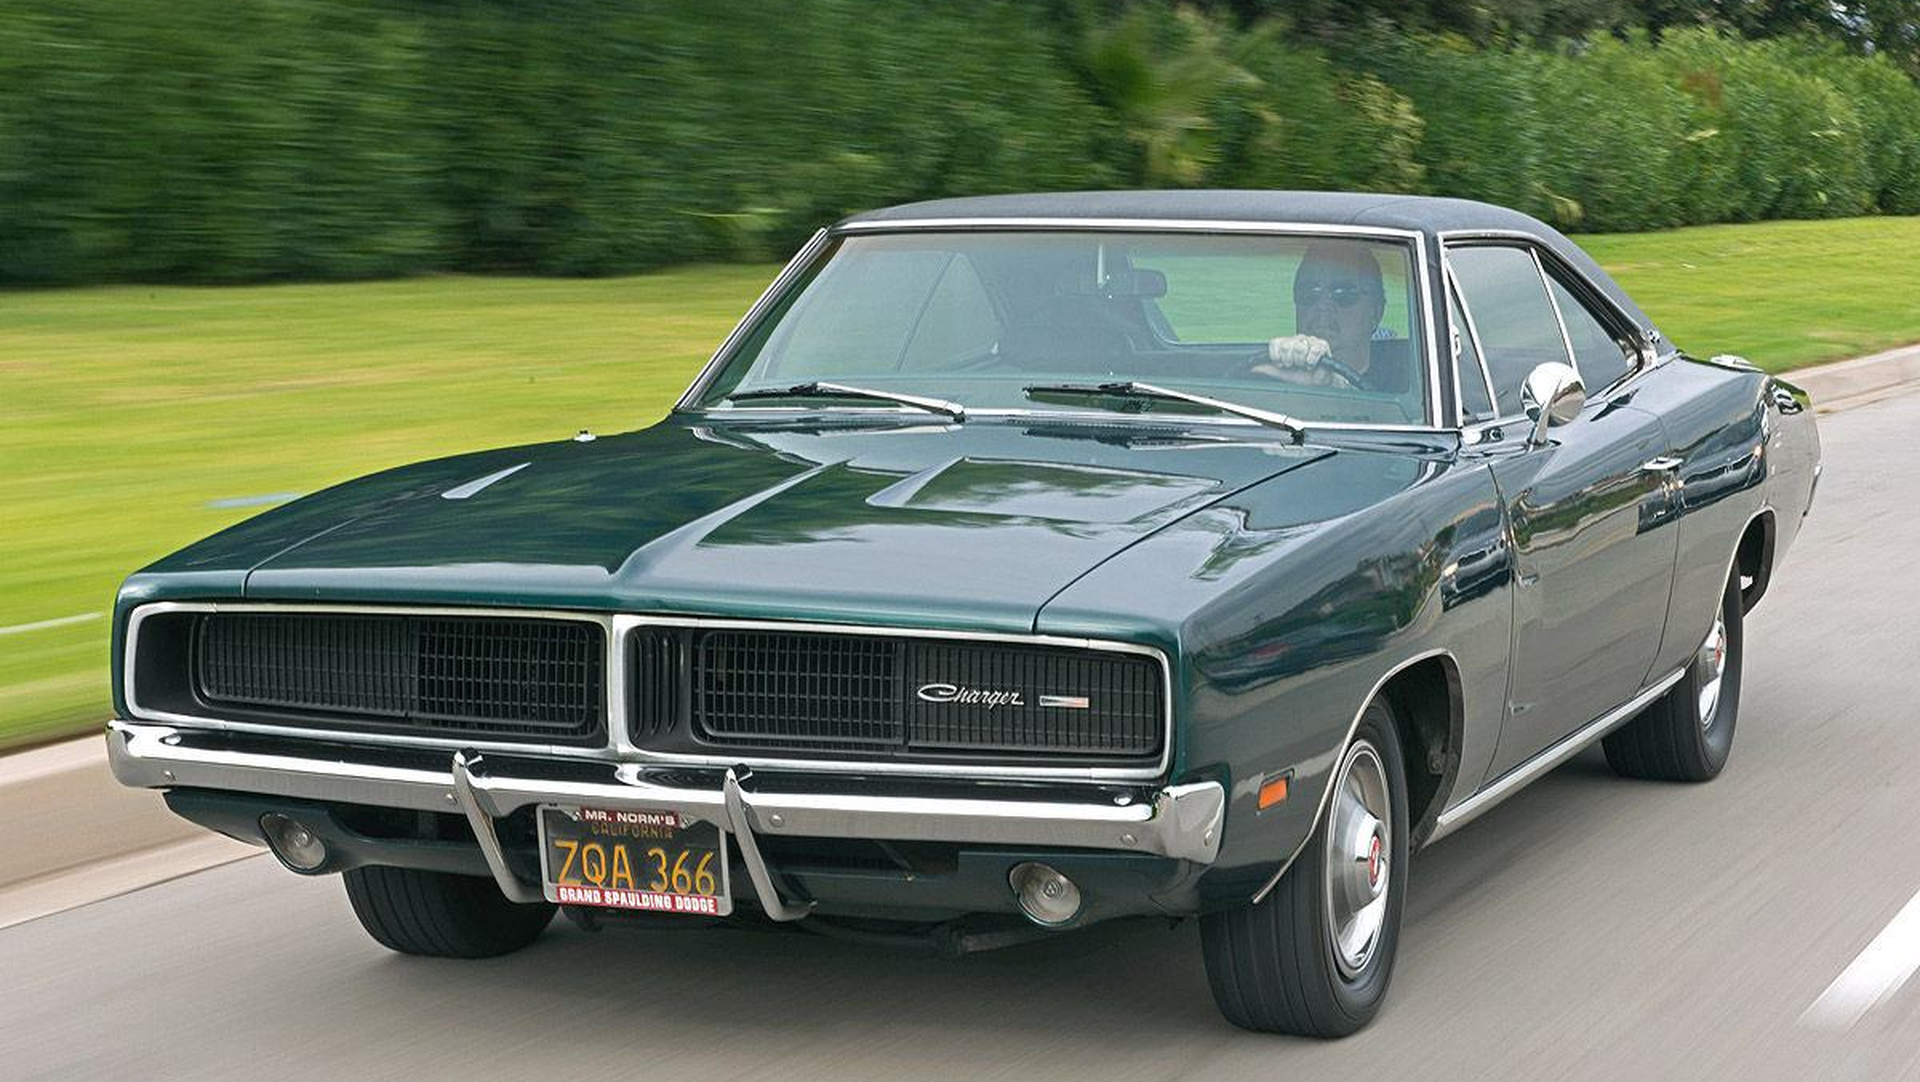
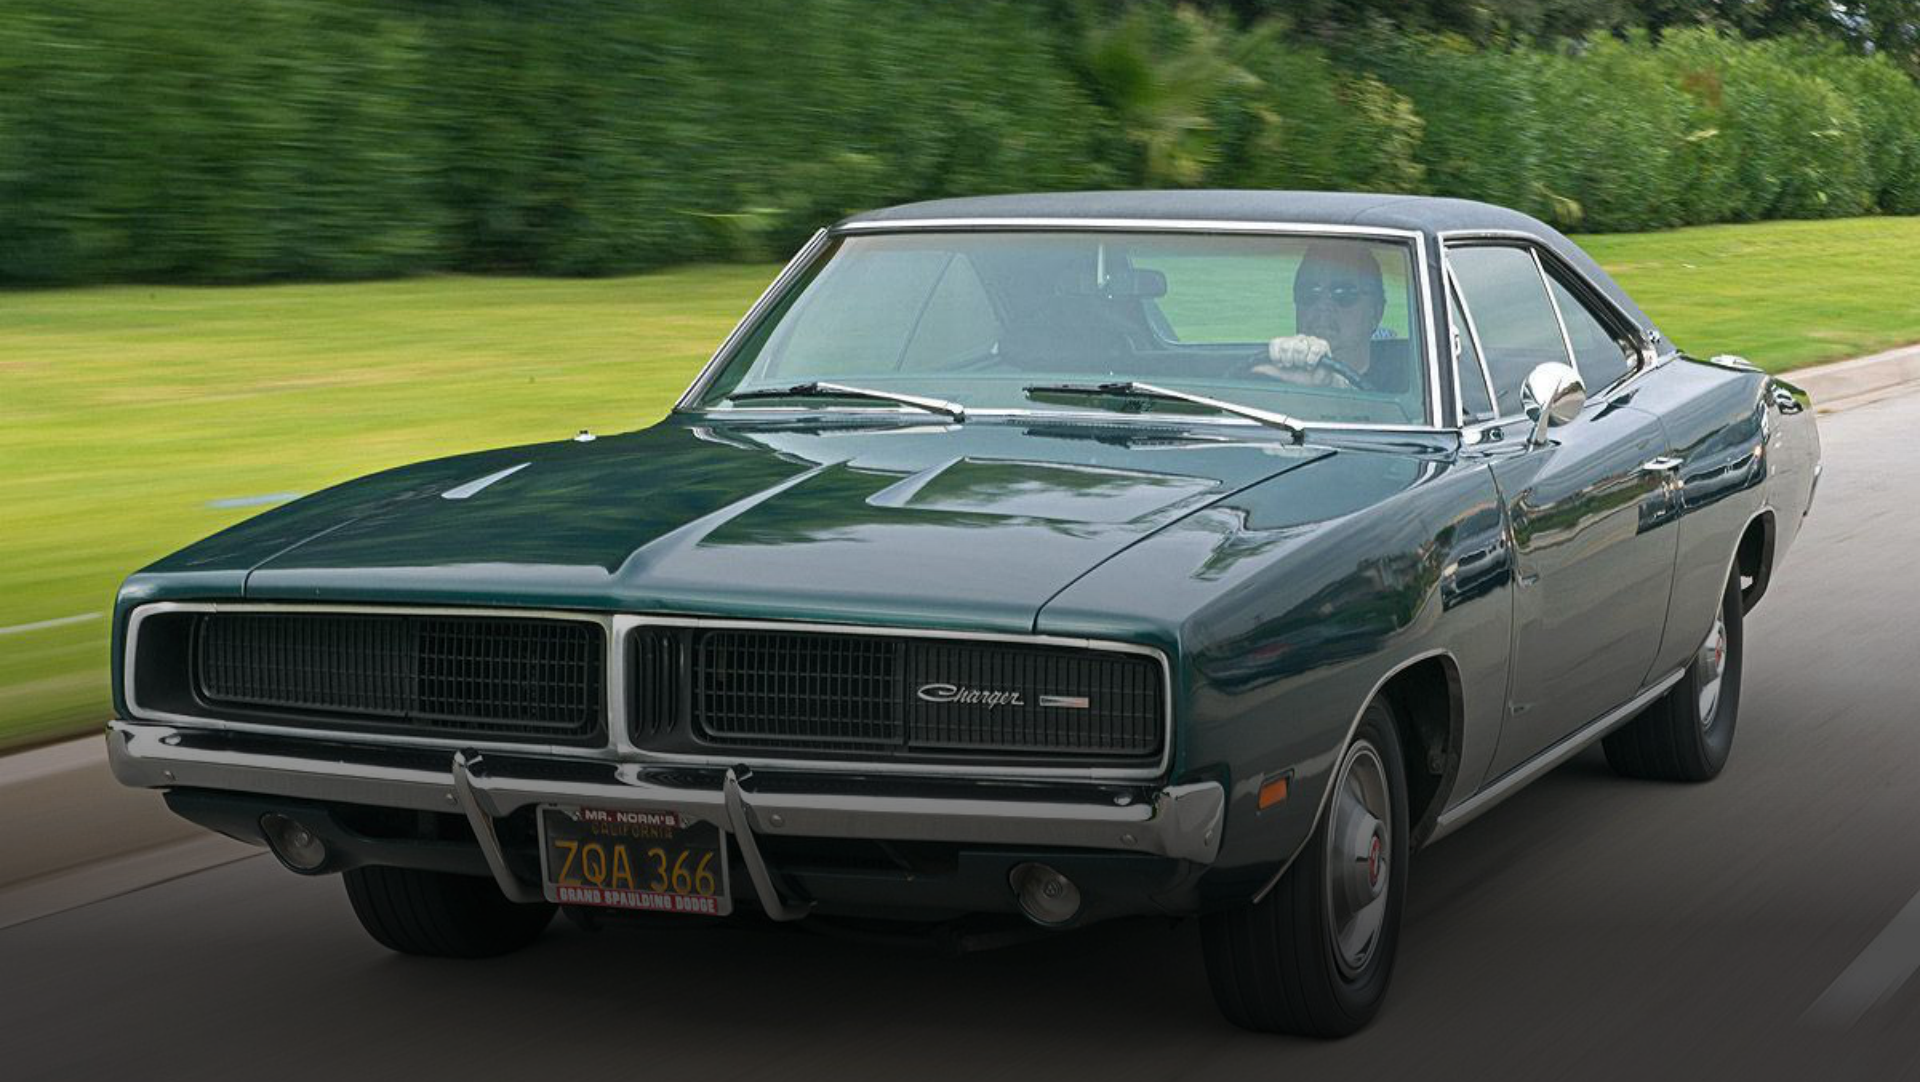
Show full car images in seamless padded car grid
- Re-extract tiles directly from design PDFs without cover cropping
- Use aspect-ratio cards so images match tile proportions exactly
- Add padded cars section container (63px) aligned with hero spacing
- Keep zero gap between grid tiles for a seamless gallery look

diff --git a/src/App.css b/src/App.css
@@ -294,7 +294,7 @@
   padding-top: 183px;
   padding-left: 63px;
   padding-right: 63px;
-  padding-bottom: 16px;
+  padding-bottom: 32px;
   box-sizing: border-box;
   display: flex;
   justify-content: center;
@@ -385,9 +385,13 @@
 /* ─── Cars ─── */
 .cars-section {
   background: #ffffff;
+  padding: 24px 63px 80px;
+}
+
+.cars-section__inner {
+  width: 100%;
   max-width: 1920px;
   margin: 0 auto;
-  padding: 0;
 }
 
 .cars-grid {
@@ -397,12 +401,15 @@
   width: 100%;
   margin: 0;
   padding: 0;
+  overflow: hidden;
 }
 
 .car-card--overlay {
   position: relative;
   width: 100%;
-  height: 541px;
+  aspect-ratio: 960 / 541;
+  height: auto;
+  min-height: 0;
   overflow: hidden;
   display: flex;
   flex-direction: column;
@@ -535,31 +542,13 @@
   color: var(--color-text-muted);
 }
 
-@media (min-width: 1920px) {
-  .car-card--overlay {
-    width: 960px;
-    height: 541px;
-  }
-
-  .cars-grid {
-    grid-template-columns: repeat(2, 960px);
-    justify-content: center;
-  }
-}
-
 @media (max-width: 768px) {
   .cars-section {
-    margin-top: 32px;
+    padding: 16px 24px 56px;
   }
 
   .cars-grid {
     grid-template-columns: 1fr;
-  }
-
-  .car-card--overlay {
-    height: auto;
-    aspect-ratio: 960 / 541;
-    min-height: 280px;
   }
 
   .car-card__overlay {

diff --git a/src/components/CarsSection.jsx b/src/components/CarsSection.jsx
@@ -14,11 +14,13 @@ export default function CarsSection() {
 
   return (
     <section id="cars" className="cars-section">
-      <div className="cars-grid">
-        {gridCars.map((car) => (
-          <CarCard key={car.id} car={car} onRent={setRentCar} />
-        ))}
-        <CarCTACard onAllCars={handleAllCars} onMoreCars={handleMoreCars} />
+      <div className="cars-section__inner">
+        <div className="cars-grid">
+          {gridCars.map((car) => (
+            <CarCard key={car.id} car={car} onRent={setRentCar} />
+          ))}
+          <CarCTACard onAllCars={handleAllCars} onMoreCars={handleMoreCars} />
+        </div>
       </div>
 
       {showAll && (

diff --git a/scripts/extract-cars-from-pdf.py b/scripts/extract-cars-from-pdf.py
@@ -3,7 +3,6 @@
 
 from __future__ import annotations
 
-import io
 import sys
 from pathlib import Path
 
@@ -26,10 +25,8 @@ UPLOAD_DIRS = [
 ]
 OUTPUT_DIRS = [ROOT / 'public' / 'cars', ROOT / 'src' / 'assets' / 'cars']
 RENDER_SCALE = 2
-TILE_WIDTH = 960 * RENDER_SCALE
-TILE_HEIGHT = 541 * RENDER_SCALE
 
-# Individual high-quality car tile PDFs → output filename
+# Individual design PDFs already frame each car for its tile.
 CAR_PDFS = [
     ('Rectangle_12_5441.pdf', 'Rectangle 12.png'),
     ('Rectangle_13_6a96.pdf', 'Group 21.png'),
@@ -50,43 +47,8 @@ def find_pdf(filename: str) -> Path | None:
     return None
 
 
-def fit_cover(image: Image.Image, width: int, height: int) -> Image.Image:
-    src_w, src_h = image.size
-    scale = max(width / src_w, height / src_h)
-    resized = image.resize(
-        (max(1, int(src_w * scale)), max(1, int(src_h * scale))),
-        Image.Resampling.LANCZOS,
-    )
-    left = (resized.width - width) // 2
-    top = (resized.height - height) // 2
-    return resized.crop((left, top, left + width, top + height))
-
-
-def render_page(pdf_path: Path, scale: int = RENDER_SCALE) -> Image.Image:
-    doc = fitz.open(pdf_path)
-    page = doc[0]
-    matrix = fitz.Matrix(scale, scale)
-    pixmap = page.get_pixmap(matrix=matrix, clip=page.rect, alpha=False)
-    image = Image.frombytes('RGB', (pixmap.width, pixmap.height), pixmap.samples)
-    doc.close()
-    return fit_cover(image, TILE_WIDTH, TILE_HEIGHT)
-
-
-def extract_embedded_image(pdf_path: Path) -> Image.Image | None:
-    doc = fitz.open(pdf_path)
-    page = doc[0]
-    images = page.get_images(full=True)
-    if not images:
-        doc.close()
-        return None
-
-    extracted = doc.extract_image(images[0][0])
-    image = Image.open(io.BytesIO(extracted['image'])).convert('RGB')
-    doc.close()
-    return fit_cover(image, TILE_WIDTH, TILE_HEIGHT)
-
-
-def render_cta_page(pdf_path: Path, scale: int = RENDER_SCALE) -> Image.Image:
+def render_tile_page(pdf_path: Path, scale: int = RENDER_SCALE) -> Image.Image:
+    """Render the PDF tile exactly as designed — full car, correct framing."""
     doc = fitz.open(pdf_path)
     page = doc[0]
     matrix = fitz.Matrix(scale, scale)
@@ -123,14 +85,14 @@ def main() -> None:
             print(f'Skipping {pdf_name}: file not found')
             continue
 
-        image = extract_embedded_image(pdf_path) or render_page(pdf_path)
+        image = render_tile_page(pdf_path)
         save_image(image, output_name)
         print(f'Extracted {output_name} from {pdf_name} ({image.width}×{image.height})')
         extracted_any = True
 
     cta_path = find_pdf(CTA_PDF)
     if cta_path:
-        cta_image = remove_white_background(render_cta_page(cta_path))
+        cta_image = remove_white_background(render_tile_page(cta_path))
         save_image(cta_image, CTA_OUTPUT)
         print(f'Extracted {CTA_OUTPUT} from {CTA_PDF} ({cta_image.width}×{cta_image.height}, transparent)')
         extracted_any = True
